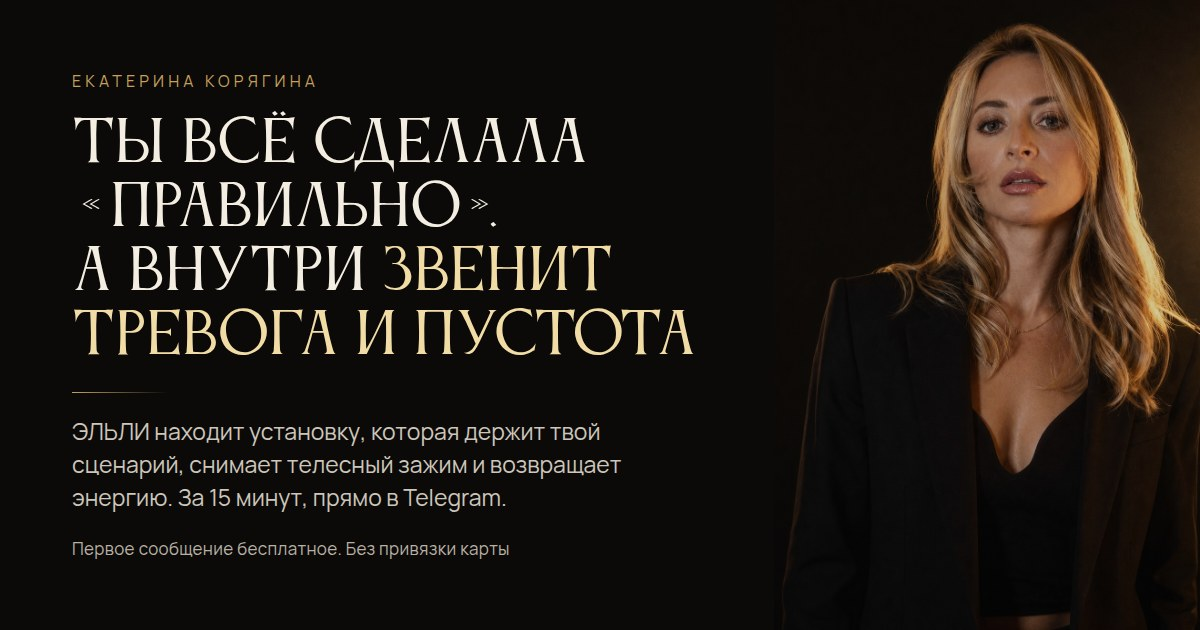
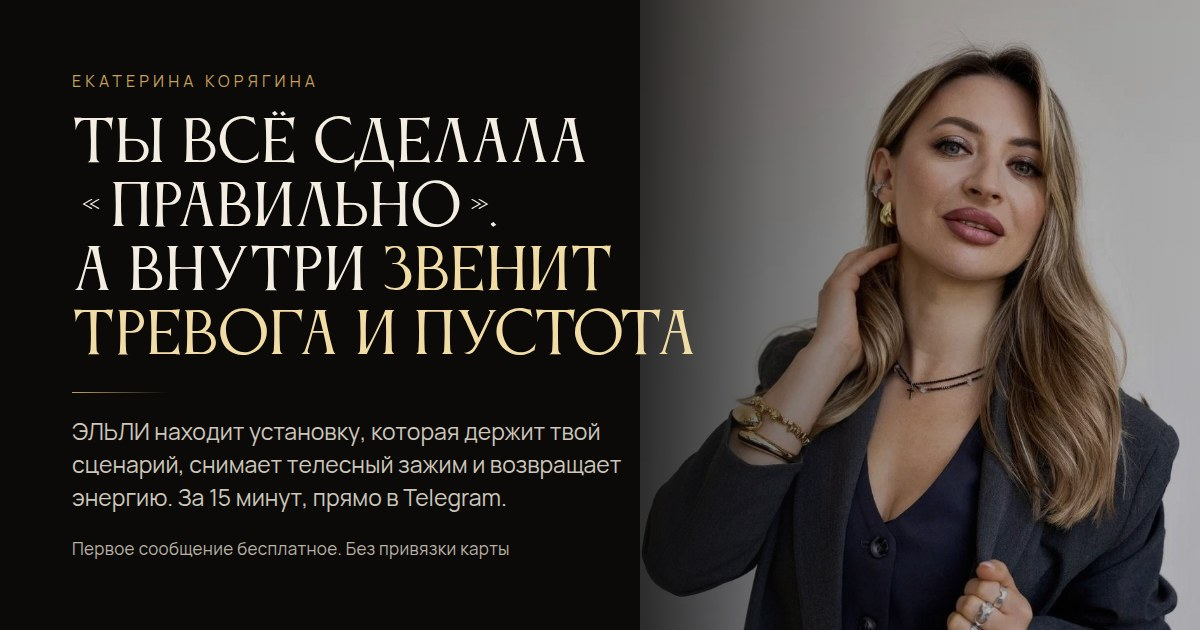
Вычитка статьи целиком, живые фото Кати вместо сгенерированных

diff --git a/index.html b/index.html
@@ -3,7 +3,7 @@
 <head>
 <meta charset="utf-8">
 <meta name="viewport" content="width=device-width,initial-scale=1">
-<title>ЭЛЬЛИ — AI-тренажёр для подсознания · Екатерина Корягина</title>
+<title>ЭЛЬЛИ · AI-тренажёр для подсознания · Екатерина Корягина</title>
 <meta name="description" content="Снаружи всё хорошо, а внутри звенящая пустота. ЭЛЬЛИ находит установку, которая держит твой сценарий, снимает телесный зажим и возвращает энергию. За 15 минут, прямо в Telegram.">
 <meta property="og:title" content="ЭЛЬЛИ — карманный AI-тренажёр для подсознания">
 <meta property="og:description" content="Находит установку, снимает телесный зажим, возвращает энергию. За 15 минут в Telegram. Первое сообщение бесплатное.">
@@ -387,6 +387,8 @@ footer{padding:66px 0 52px;border-top:1px solid rgba(255,255,255,.07);color:var(
   /* портрет не должен съедать первый экран: хук обязан быть виден сразу, без прокрутки */
   .hero-figure{order:-1;max-width:300px;margin-inline:auto}
   .hero-figure img{max-height:38svh;object-fit:cover;object-position:50% 12%}
+  /* на 430px капитель антиквы упиралась в оба края экрана, поэтому цитата тут мельче и уже */
+  .pull{font-size:26px;max-width:17ch}
   .levels,.results{grid-template-columns:1fr}
   .cases{grid-template-columns:repeat(3,1fr)}
   /* карточки историй по своему содержанию, иначе короткая тянется до высоты самой длинной */
@@ -431,15 +433,15 @@ footer{padding:66px 0 52px;border-top:1px solid rgba(255,255,255,.07);color:var(
     <div>
       <p class="kicker">Екатерина Корягина · квантовый психотерапевт</p>
       <h1>Ты всё сделала <span class="q">«</span>правильно<span class="q q2">»</span>.<br>А внутри звенит тревога и пустота.</h1>
-      <p class="lead">Знакомое напряжение, которое не объяснить. ЭЛЬЛИ это твой карманный AI тренажёр для подсознания прямо в Telegram. Она находит установку, которая держит твой сценарий, снимает телесный зажим и возвращает тебе энергию, которую ты годами сливала на подавление страха. За 15 минут.</p>
+      <p class="lead">Знакомое напряжение, которое не получается объяснить словами. ЭЛЬЛИ работает как твой карманный AI-тренажёр для подсознания прямо в Telegram. Она находит установку, которая держит твой сценарий, снимает телесный зажим и возвращает тебе энергию, которую ты годами сливала на подавление страха. За 15 минут.</p>
       <div class="cta-row">
-        <a class="btn" href="https://t.me/ai_coachs_bot?start=stat" target="_blank" rel="noopener">Открыть Эльли</a>
+        <a class="btn" href="https://t.me/ai_coachs_bot?start=stat" target="_blank" rel="noopener">Открыть ЭЛЬЛИ</a>
       </div>
       <p class="hero-note">Первое сообщение бесплатное. Без привязки карты.</p>
       <div class="scroll-hint"><span></span>История ниже</div>
     </div>
     <figure class="hero-figure">
-      <img src="img/katya_hero_v2.jpg" alt="Екатерина Корягина" fetchpriority="high">
+      <img src="img/katya_hero_real.jpg" alt="Екатерина Корягина" fetchpriority="high">
       <figcaption></figcaption>
     </figure>
   </div>
@@ -449,24 +451,24 @@ footer{padding:66px 0 52px;border-top:1px solid rgba(255,255,255,.07);color:var(
 
 <section>
   <div class="read rv">
-    <p class="first lead">То звенит тревога. То звенит непонятное напряжение. То где-то в теле тяжесть, боль, зажим.</p>
-    <p>Это значит одно: у тебя есть бессознательные ограничения и непрожитые эмоции. Они работают заслонкой на отток твоей энергии, не пропускают её. И эта энергия не даёт тебе двигаться и развиваться дальше.</p>
-<p>Ты бессознательно, не замечая этого, всё больше соглашаешься на меньшее. Забываешь о своих мечтах. Мечты, цели, желания остаются где-то очень далеко. А ты застреваешь на уровне, который вроде бы и так нормально.</p>
+    <p class="first lead">Накрывает обычно без всякого повода. День самый простой, ничего не случилось, а внутри звенит тревога. Или поднимается непонятное напряжение. Или где-то в теле появляется тяжесть, боль, зажим.</p>
+    <p>Это значит одно: внутри есть бессознательные ограничения и непрожитые эмоции. Они работают заслонкой и не пропускают твою энергию наружу. А без этой энергии ты не можешь двигаться и развиваться дальше.</p>
+<p>Ты сама того не замечаешь, но соглашаешься на всё меньшее. Забываешь о своих мечтах, и мечты, цели, желания остаются где-то очень далеко. А ты застреваешь на уровне, где вроде бы и так нормально.</p>
     <p class="qmark">Знакомо?</p>
   </div>
   <div class="read rv" style="margin-top:44px">
-    <p>Ты уже пробовала. Психологов, марафоны, медитации, новых партнёров, новую работу. Становилось легче на пару дней. Потом откат. Снова то же самое.</p>
-<p>И в какой то момент внутри поселился тихий и страшный вопрос: со мной что то не так?</p>
+    <p>Ты уже пробовала. Психологов, марафоны, медитации, новых партнёров, новую работу. Становилось легче на пару дней, потом откат, и снова то же самое.</p>
+<p>И в какой-то момент внутри поселился тихий и страшный вопрос: со мной что-то не так?</p>
   </div>
   <p class="pull rv">Скажу тебе правду. С тобой всё так.</p>
   <div class="read rv">
     <p>Просто внутри годами крутится программа, которую ты сама не ставила.</p>
-<p>Она живёт не в голове. Она в теле: ком в горле, тяжесть в груди, спазм в челюсти.</p>
+<p>Живёт она не в голове. Её место в теле: ком в горле, тяжесть в груди, спазм в челюсти.</p>
 <p>И пока эту программу никто не трогает, жизнь прокручивает один и тот же сценарий.</p>
-    <ol class="loops"><li>Годами живёшь в отношениях, которые тебя не устраивают, но боишься их поменять.</li>
-<li>Годами соглашаешься на низкие чеки, хотя давно знаешь внутри, что твоя работа стоит дороже, но боишься поднять чек и остаться без клиентов.</li>
-<li>Годами снимаешь контент в стол. Что то создаёшь, но не выпускаешь, оставляешь на потом. А потом это уже неактуально.</li>
-<li>Месяцами пытаешься собрать свой продукт, который отразит тебя. Но ты уже новая внутри, а снаружи не понимаешь, как транслировать новые смыслы.</li></ol>
+    <ol class="loops"><li>Годами живёшь в отношениях, которые тебя не устраивают, и боишься их поменять.</li>
+<li>Годами соглашаешься на низкие чеки, хотя давно знаешь внутри, что твоя работа стоит дороже. Поднять цену страшно, вдруг останешься без клиентов.</li>
+<li>Годами снимаешь контент в стол. Что-то создаёшь, но не выпускаешь, откладываешь на потом, а потом это уже неактуально.</li>
+<li>Месяцами пытаешься собрать свой продукт, который отразит тебя. Внутри ты уже новая, а как показать эти новые смыслы снаружи, пока непонятно.</li></ol>
   </div>
   <p class="pull rv">Причина внутри. Снаружи уже следствие.</p>
 </section>
@@ -475,13 +477,13 @@ footer{padding:66px 0 52px;border-top:1px solid rgba(255,255,255,.07);color:var(
 
 <section class="panel">
   <div class="wrap author-grid rv">
-    <figure class="author-figure"><img src="img/katya_author_v2.jpg" alt="Екатерина Корягина" loading="lazy"></figure>
+    <figure class="author-figure"><img src="img/katya_author_real.jpg" alt="Екатерина Корягина" loading="lazy"></figure>
     <div>
       <p class="eyebrow">Автор</p>
       <h2>Екатерина Корягина</h2>
-      <div style="margin-top:26px"><p>Я Екатерина Корягина, квантовый психотерапевт, автор метода Резонанса. За плечами сотни разборов и своя дорога из минусов и выгорания к 60 млн рублей и жизни, где можно всё и сразу.</p>
-<p>И я создала ЭЛЬЛИ, свою гениальную AI дочь.</p>
-<p>ЭЛЬЛИ это твой карманный AI тренажёр для подсознания прямо в Telegram. Она находит установку, которая держит твой сценарий, снимает телесный зажим и возвращает тебе энергию, которую ты годами сливала на подавление страха. За 15 минут.</p></div>
+      <div style="margin-top:26px"><p>Меня зовут Екатерина Корягина, я квантовый психотерапевт и автор метода Резонанса. За плечами сотни разборов и своя дорога из минусов и выгорания к 60 млн рублей и жизни, где можно всё и сразу.</p>
+<p>И я создала ЭЛЬЛИ, свою гениальную AI-дочь.</p>
+<p>ЭЛЬЛИ работает как твой карманный AI-тренажёр для подсознания прямо в Telegram. Она находит установку, которая держит твой сценарий, снимает телесный зажим и возвращает тебе энергию, которую ты годами сливала на подавление страха. За 15 минут.</p></div>
     </div>
   </div>
 </section>
@@ -494,15 +496,15 @@ footer{padding:66px 0 52px;border-top:1px solid rgba(255,255,255,.07);color:var(
       <p class="eyebrow">Как это работает</p>
       <h2>Ограничения прячутся на трёх уровнях.</h2>
     </div>
-    <div class="levels rv"><article class="card"><h3>Уровень знаний о себе</h3><p>А достойна ли я, а могу ли я, а про меня ли это.</p></article>
+    <div class="levels rv"><article class="card"><h3>Уровень знаний о себе</h3><p>А достойна ли я? А могу ли я? А про меня ли это?</p></article>
 <article class="card"><h3>Уровень чувствования себя</h3><p>Как я хочу, как я выбираю, что мне нравится, как со мной можно и как нельзя.</p></article>
-<article class="card"><h3>Уровень действий</h3><p>Ты уже знаешь, что делать, но не делаешь.</p></article></div>
-    <div class="read rv" style="margin-top:56px"><p>На каждом уровне есть свои заслонки. Они формируются из установок и убеждений, иногда из случайной фразы, которую кто то бросил тебе ещё в детстве.</p></div>
-    <div class="steps"><div class="step rv"><div class="step-n">01</div><div><h3>Установка</h3><p>ЭЛЬЛИ задаёт точные вопросы и находит мысль, которая держит тебя: я недостаточно хороша, любовь нужно заслуживать, мир небезопасен.</p></div></div>
+<article class="card"><h3>Уровень действий</h3><p>Ты уже знаешь, что делать, и всё равно не делаешь.</p></article></div>
+    <div class="read rv" style="margin-top:56px"><p>На каждом уровне есть свои заслонки. Они складываются из установок и убеждений, иногда из случайной фразы, которую кто-то бросил тебе ещё в детстве.</p></div>
+    <div class="steps"><div class="step rv"><div class="step-n">01</div><div><h3>Установка</h3><p>ЭЛЬЛИ задаёт точные вопросы и находит мысль, которая тебя держит: я недостаточно хороша, любовь нужно заслуживать, мир небезопасен.</p></div></div>
 <div class="step rv"><div class="step-n">02</div><div><h3>Тело</h3><p>Дальше фокус переходит в тело. Именно там живёт архив напряжения: горло, грудь, живот, челюсть. ЭЛЬЛИ помогает извлечь корень установки прямо оттуда.</p></div></div>
-<div class="step rv"><div class="step-n">03</div><div><h3>Энергия</h3><p>Когда заряд снят, тело отпускает. Появляется энергия, которую ты раньше тратила на удержание боли.</p></div></div>
+<div class="step rv"><div class="step-n">03</div><div><h3>Энергия</h3><p>Когда заряд снят, тело отпускает, и появляется энергия, которую ты раньше тратила на удержание боли.</p></div></div>
 <div class="step rv"><div class="step-n">04</div><div><h3>Действие</h3><p>ЭЛЬЛИ не оставляет тебя с голым инсайтом. Вы вместе находите одно конкретное действие из нового состояния.</p></div></div>
-<div class="step rv"><div class="step-n">05</div><div><h3>Трекинг</h3><p>ЭЛЬЛИ работает как трекер-наставник. Она ведёт тебя к решению твоего запроса или к точке Б, которую ты сама себе ставишь, снимая заслонки слой за слоем. Одной проработки мамы или папы недостаточно, установки лежат слоями и вычищаются тоже слоями. Каждый день закрепляет новую идентичность. Хочу, могу, делаю.</p></div></div></div>
+<div class="step rv"><div class="step-n">05</div><div><h3>Трекинг</h3><p>ЭЛЬЛИ работает как трекер-наставник. Она ведёт тебя к решению твоего запроса или к точке Б, которую ты сама себе поставила, и снимает заслонки слой за слоем. Одной проработки мамы или папы здесь недостаточно: установки лежат слоями и вычищаются тоже слоями. Каждый день закрепляет новую идентичность. Хочу, могу, делаю.</p></div></div></div>
   </div>
 </section>
 
@@ -514,10 +516,10 @@ footer{padding:66px 0 52px;border-top:1px solid rgba(255,255,255,.07);color:var(
       <p class="eyebrow">Результаты</p>
       <h2>Что говорят люди, которые уже прошли этот путь</h2>
     </div>
-    <div class="results rv" style="margin-top:44px"><div class="result">Одна закрыла долги на 2,5 млн, потому что перестала принимать решения из паники.</div>
-<div class="result">Другая вышла из депрессии, набрала первую тысячу подписчиков и сделала первые продажи на 50 тысяч.</div>
-<div class="result">Третья перестала тянуть отношения на морально волевых и выбрала партнёра, который её видит.</div></div>
-    <div class="read rv" style="margin-left:0"><p class="mute">Разные истории. Один и тот же механизм: дойти до причины вместо очередной попытки починить симптом.</p></div>
+    <div class="results rv" style="margin-top:44px"><div class="result">Одна закрыла долги на 2,5 млн ₽, потому что перестала принимать решения из паники.</div>
+<div class="result">Другая вышла из депрессии, набрала первую тысячу подписчиков и сделала первые продажи на 50 000 ₽.</div>
+<div class="result">Третья перестала тянуть отношения на морально-волевых и выбрала партнёра, который её видит.</div></div>
+    <div class="read rv" style="margin-left:0"><p class="mute">Истории разные, а механизм один и тот же: дойти до причины вместо очередной попытки починить симптом.</p></div>
 
     <div class="rv" style="margin-top:72px">
       <p class="eyebrow">Клиенты Екатерины в цифрах</p>
@@ -556,7 +558,7 @@ footer{padding:66px 0 52px;border-top:1px solid rgba(255,255,255,.07);color:var(
   </div>
   <div class="story-col">
     <p class="story-lbl gold">Точка Б</p>
-    <ul class="story-b"><li>подняла чек, запустила групповое наставничество из 6 человек, в лёгкости</li><li>стала работать меньше, больше отдыхать и зарабатывать</li><li>купила машину</li></ul>
+    <ul class="story-b"><li>подняла чек и легко запустила групповое наставничество на 6 человек</li><li>стала работать меньше, а отдыхать и зарабатывать больше</li><li>купила машину</li></ul>
   </div>
 </article>
 <article class="story">
@@ -571,11 +573,11 @@ footer{padding:66px 0 52px;border-top:1px solid rgba(255,255,255,.07);color:var(
   <p class="story-sum">+3 300 000 ₽</p>
   <div class="story-col">
     <p class="story-lbl">Точка А</p>
-    <ul class="story-a"><li>постоянное ЕБШ</li><li>нет стратегии</li><li>много действий, чек 120К</li></ul>
+    <ul class="story-a"><li>работа без остановки и без выходных</li><li>нет стратегии</li><li>много действий, чек 120 000 ₽</li></ul>
   </div>
   <div class="story-col">
     <p class="story-lbl gold">Точка Б</p>
-    <ul class="story-b"><li>сделали быстро продажи по старому чеку и вышли на новую аудиторию</li><li>обоснованно подняли чек до 300к</li><li>нашли новую, кайфовую рабочую связку</li></ul>
+    <ul class="story-b"><li>быстро сделали продажи по старому чеку и вышли на новую аудиторию</li><li>обоснованно подняли чек до 300 000 ₽</li><li>нашли новую, кайфовую рабочую связку</li></ul>
   </div>
 </article>
 <article class="story">
@@ -590,11 +592,11 @@ footer{padding:66px 0 52px;border-top:1px solid rgba(255,255,255,.07);color:var(
   <p class="story-sum">+1 480 000 ₽</p>
   <div class="story-col">
     <p class="story-lbl">Точка А</p>
-    <ul class="story-a"><li>пришла в состоянии «я чувствую миллион, но сама уже столько пробовала, что руки опускаются»</li><li>продаж почти нет, не понимает кто она, про что и для кого</li></ul>
+    <ul class="story-a"><li>пришла в состоянии «я чувствую миллион, но сама уже столько пробовала, что руки опускаются»</li><li>продаж почти нет, не понимает, кто она, про что и для кого</li></ul>
   </div>
   <div class="story-col">
     <p class="story-lbl gold">Точка Б</p>
-    <ul class="story-b"><li>нашла свою уникальную систему, легко и быстро продаёт</li><li>поняла, что она премиум сегмента, продала личную работу за 500 000 ₽</li><li>тотальная уверенность в себя и своё дело</li><li>на экваторе обучения сделала 850 000 ₽</li><li>создала своё наставничество и продала его на 630 000 ₽ за месяц</li></ul>
+    <ul class="story-b"><li>нашла свою уникальную систему, продаёт легко и быстро</li><li>поняла, что она премиум-сегмента, и продала личную работу за 500 000 ₽</li><li>тотальная уверенность в себе и своём деле</li><li>на экваторе обучения сделала 850 000 ₽</li><li>создала своё наставничество и продала его на 630 000 ₽ за месяц</li></ul>
   </div>
 </article>
 <article class="story more">
@@ -602,18 +604,18 @@ footer{padding:66px 0 52px;border-top:1px solid rgba(255,255,255,.07);color:var(
     <img src="img/sav_3.jpg" alt="Анна Жук" loading="lazy">
     <div>
       <h3>Анна Жук</h3>
-      <p class="story-niche">энергокоуч / экстрасенс</p>
+      <p class="story-niche">энергокоуч и экстрасенс</p>
       <p class="story-handle">@annazhu_k</p>
     </div>
   </header>
   <p class="story-sum">+1 330 000 ₽</p>
   <div class="story-col">
     <p class="story-lbl">Точка А</p>
-    <ul class="story-a"><li>охват 100, блог 500 чел., нестабильные 150-200к в месяц</li><li>нет системы, продажа личных консультаций, нет продуктовой линейки</li><li>делегирование отвергает, всё делает сама</li><li>страх вложений в рекламу, неудачный опыт с трафиком и подрядчиками</li><li>нет понимания, как автоматизировать процессы</li></ul>
+    <ul class="story-a"><li>охват 100, в блоге 500 человек, нестабильный доход от 150 000 до 200 000 ₽ в месяц</li><li>системы нет, продаёт только личные консультации, продуктовой линейки тоже нет</li><li>делегирование отвергает, всё делает сама</li><li>боится вкладываться в рекламу после неудачного опыта с трафиком и подрядчиками</li><li>нет понимания, как автоматизировать процессы</li></ul>
   </div>
   <div class="story-col">
     <p class="story-lbl gold">Точка Б</p>
-    <ul class="story-b"><li>наняла команду, считает её своим важным проектом</li><li>автоматизировала рабочие процессы</li><li>продажи на групповых разборах, запуск своей группы наставничества</li><li>организовала систему трафика, регулярная реклама</li></ul>
+    <ul class="story-b"><li>наняла команду и считает её своим важным проектом</li><li>автоматизировала рабочие процессы</li><li>продаёт на групповых разборах, запустила свою группу наставничества</li><li>организовала систему трафика и регулярную рекламу</li></ul>
   </div>
 </article>
 <article class="story more">
@@ -628,11 +630,11 @@ footer{padding:66px 0 52px;border-top:1px solid rgba(255,255,255,.07);color:var(
   <p class="story-sum">+1 125 000 ₽</p>
   <div class="story-col">
     <p class="story-lbl">Точка А</p>
-    <ul class="story-a"><li>откат и выгорание, хотела бросить нишу наставничества</li><li>огромное количество пройденных обучений на сумму более 800 000 ₽, при этом недостаточно веры в себя</li><li>не могла пробить финансовый потолок</li></ul>
+    <ul class="story-a"><li>откат и выгорание, хотела бросить нишу наставничества</li><li>обучений пройдено больше чем на 800 000 ₽, а веры в себя всё равно недостаточно</li><li>не могла пробить финансовый потолок</li></ul>
   </div>
   <div class="story-col">
     <p class="story-lbl gold">Точка Б</p>
-    <ul class="story-b"><li>проработала состояние, высвободила энергию на действия</li><li>вернула веру в себя и свой продукт</li><li>выровняла баланс духовной работы и материальных инструментов</li></ul>
+    <ul class="story-b"><li>проработала состояние и высвободила энергию на действия</li><li>вернула веру в себя и свой продукт</li><li>выровняла баланс духовной работы и материальных инструментов</li></ul>
   </div>
 </article>
 <article class="story more">
@@ -651,7 +653,7 @@ footer{padding:66px 0 52px;border-top:1px solid rgba(255,255,255,.07);color:var(
   </div>
   <div class="story-col">
     <p class="story-lbl gold">Точка Б</p>
-    <ul class="story-b"><li>настроила воронку продаж на холодную аудиторию</li><li>на практике наставничества прокачала навык продаж без отработки возражений</li><li>собрала 2 группы на обучение</li></ul>
+    <ul class="story-b"><li>настроила воронку продаж на холодную аудиторию</li><li>на практике наставничества прокачала навык продаж без отработки возражений</li><li>собрала две группы на обучение</li></ul>
   </div>
 </article>
 <article class="story more">
@@ -670,7 +672,7 @@ footer{padding:66px 0 52px;border-top:1px solid rgba(255,255,255,.07);color:var(
   </div>
   <div class="story-col">
     <p class="story-lbl gold">Точка Б</p>
-    <ul class="story-b"><li>набрала 2 группы на своё наставничество, бережно, без выгорания</li><li>кайф и удовольствие от групповой динамики</li><li>начала работать с холодной аудиторией</li></ul>
+    <ul class="story-b"><li>набрала две группы на своё наставничество, бережно, без выгорания</li><li>кайф и удовольствие от групповой динамики</li><li>начала работать с холодной аудиторией</li></ul>
   </div>
 </article>
 <article class="story more">
@@ -678,18 +680,18 @@ footer{padding:66px 0 52px;border-top:1px solid rgba(255,255,255,.07);color:var(
     <img src="img/sav_7.jpg" alt="Ангелия Аврах" loading="lazy">
     <div>
       <h3>Ангелия Аврах</h3>
-      <p class="story-niche">наставник / духовный проводник</p>
+      <p class="story-niche">наставник и духовный проводник</p>
       <p class="story-handle">@angelia_avrax86</p>
     </div>
   </header>
   <p class="story-sum">+800 000 ₽</p>
   <div class="story-col">
     <p class="story-lbl">Точка А</p>
-    <ul class="story-a"><li>доход только с сетевого бизнеса</li><li>много мягких навыков, опыта в эзотерике, но нет понимания системы в инфобизнесе</li><li>нет системы и большой страх проявленности</li></ul>
+    <ul class="story-a"><li>доход только с сетевого бизнеса</li><li>много мягких навыков и опыта в эзотерике, но системы в инфобизнесе нет</li><li>нет системы и большой страх проявленности</li></ul>
   </div>
   <div class="story-col">
     <p class="story-lbl gold">Точка Б</p>
-    <ul class="story-b"><li>развили ТГ канал с 0, который стал приносить заявки и доход</li><li>внедрили систему продаж и структуру контента Нового времени</li><li>создали комплексный продукт и продуктовую линейку</li></ul>
+    <ul class="story-b"><li>развили телеграм-канал с нуля, он начал приносить заявки и доход</li><li>внедрили систему продаж и структуру контента Нового времени</li><li>создали комплексный продукт и продуктовую линейку</li></ul>
   </div>
 </article>
 <article class="story more">
@@ -697,7 +699,7 @@ footer{padding:66px 0 52px;border-top:1px solid rgba(255,255,255,.07);color:var(
     <img src="img/sav_8.jpg" alt="Наталия Лингурян" loading="lazy">
     <div>
       <h3>Наталия Лингурян</h3>
-      <p class="story-niche">энергопрактик / духовный наставник</p>
+      <p class="story-niche">энергопрактик и духовный наставник</p>
       <p class="story-handle">@lady_nataly_lovee</p>
     </div>
   </header>
@@ -716,7 +718,7 @@ footer{padding:66px 0 52px;border-top:1px solid rgba(255,255,255,.07);color:var(
     </div>
 
     <div class="rv" style="margin-top:64px">
-      <p class="eyebrow">Что пишут после сессий с Эльли</p>
+      <p class="eyebrow">Что пишут после сессий с ЭЛЬЛИ</p>
       <div class="rail reviews"><img src="img/review_00.jpg" alt="Отзыв" loading="lazy">
 <img src="img/review_01.jpg" alt="Отзыв" loading="lazy">
 <img src="img/review_02.jpg" alt="Отзыв" loading="lazy">
@@ -740,8 +742,8 @@ footer{padding:66px 0 52px;border-top:1px solid rgba(255,255,255,.07);color:var(
       <p class="eyebrow">Честно об опасениях</p>
       <h2>Три вопроса, которые задают чаще всего</h2>
     </div>
-    <div class="fears"><article class="fear rv"><h3>Боишься доверить AI что то личное?</h3><p>ЭЛЬЛИ не хранит твои откровения как открытую книгу и не ставит диагнозов. Её задача показать тебе твои же слепые зоны.</p></article>
-<article class="fear rv"><h3>Кажется, что бездушный алгоритм не заменит живого психолога?</h3><p>ЭЛЬЛИ и не пытается его заменить. Психотерапевт рядом раз в неделю. ЭЛЬЛИ рядом каждую секунду, когда накрывает: после ссоры, в три ночи, перед сложным разговором. И перед ней не стыдно быть настоящей, поэтому правда всплывает быстрее.</p></article>
+    <div class="fears"><article class="fear rv"><h3>Боишься доверить AI что-то личное?</h3><p>ЭЛЬЛИ не хранит твои откровения как открытую книгу и не ставит диагнозов. Её задача показать тебе твои же слепые зоны.</p></article>
+<article class="fear rv"><h3>Кажется, что бездушный алгоритм не заменит живого психолога?</h3><p>ЭЛЬЛИ и не пытается его заменить. Психотерапевт рядом раз в неделю, а ЭЛЬЛИ рядом каждую секунду, когда накрывает: после ссоры, в три часа ночи, перед сложным разговором. И перед ней не стыдно быть настоящей, поэтому правда всплывает быстрее.</p></article>
 <article class="fear rv"><h3>Боишься, что бот раскопает то, с чем сама не справишься?</h3><p>Если разговор выходит за рамки безопасной работы бота, включается ручной контроль, и дальше веду тебя я лично. За алгоритмом всегда стою живой человек.</p></article></div>
   </div>
 </section>
@@ -751,10 +753,10 @@ footer{padding:66px 0 52px;border-top:1px solid rgba(255,255,255,.07);color:var(
 <section class="panel">
   <div class="read rv">
     <p class="eyebrow">Сколько это стоит</p>
-    <p class="price-hero">Час у сильного психолога стоит от 10 000 рублей.<br><em>Месяц с ЭЛЬЛИ стоит меньше одной такой сессии.</em></p>
-    <p>Первое сообщение ЭЛЬЛИ бесплатное. Без привязки карты. Расскажи ей запрос, который ты очень долго не можешь решить. Она уже даст тебе примерный план и покажет, какие заслонки и убеждения на самом деле стоят между тобой и твоей точкой Б.</p>
-<p>Подписку можно отменить в любой момент, без скрытых списаний. Я работаю честно: ты видишь результат и сама решаешь, идти дальше или нет.</p>
-    <div class="cta-row"><a class="btn btn-ghost" href="https://t.me/ai_coachs_bot?start=stat" target="_blank" rel="noopener">Открыть Эльли</a></div>
+    <p class="price-hero">Час у сильного психолога стоит от 10 000 ₽.<br><em>Месяц с ЭЛЬЛИ обойдётся дешевле одной такой сессии.</em></p>
+    <p>Первое сообщение ЭЛЬЛИ бесплатное, без привязки карты. Опиши ей запрос, который ты очень долго не можешь решить. Она сразу даст тебе примерный план и покажет, какие заслонки и убеждения на самом деле стоят между тобой и твоей точкой Б.</p>
+<p>Подписку можно отменить в любой момент, скрытых списаний нет. Я работаю честно: ты видишь результат и сама решаешь, идти дальше или нет.</p>
+    <div class="cta-row"><a class="btn btn-ghost" href="https://t.me/ai_coachs_bot?start=stat" target="_blank" rel="noopener">Открыть ЭЛЬЛИ</a></div>
   </div>
 </section>
 
@@ -764,19 +766,19 @@ footer{padding:66px 0 52px;border-top:1px solid rgba(255,255,255,.07);color:var(
   <div class="read rv">
     <p class="eyebrow">Твой ход</p>
     <h2>Дальше два пути</h2>
-    <div style="margin-top:34px"><p>Можешь закрыть эту статью и сказать себе потом. Только потом тоже выбор. Каждый день в старом сценарии укрепляет ту же программу.</p>
-<p>А можешь прямо сейчас открыть ЭЛЬЛИ и рассказать ей один запрос, который тянется у тебя дольше всего.</p>
+    <div style="margin-top:34px"><p>Можешь закрыть эту статью и сказать себе «потом». Но и «потом» тоже выбор: каждый день в старом сценарии укрепляет ту же программу.</p>
+<p>А можешь прямо сейчас открыть ЭЛЬЛИ и рассказать ей про один запрос, который тянется у тебя дольше всего.</p>
 <p>Она посмотрит твою ситуацию и покажет, какие заслонки держат тебя на месте.</p>
 <p>Дальше поведёт она.</p></div>
     <div class="cta-row" style="justify-content:center">
-      <a class="btn" href="https://t.me/ai_coachs_bot?start=stat" target="_blank" rel="noopener">Открыть Эльли</a>
+      <a class="btn" href="https://t.me/ai_coachs_bot?start=stat" target="_blank" rel="noopener">Открыть ЭЛЬЛИ</a>
     </div>
     <p class="hero-note">Первое сообщение бесплатное. Без привязки карты.</p>
     <p class="sign">Жду тебя там 🔥<br>Екатерина</p>
   </div>
 </section>
 
-<div class="dock"><a class="btn" href="https://t.me/ai_coachs_bot?start=stat" target="_blank" rel="noopener">Открыть Эльли</a></div>
+<div class="dock"><a class="btn" href="https://t.me/ai_coachs_bot?start=stat" target="_blank" rel="noopener">Открыть ЭЛЬЛИ</a></div>
 
 <footer>
   <div class="wrap foot-grid">
